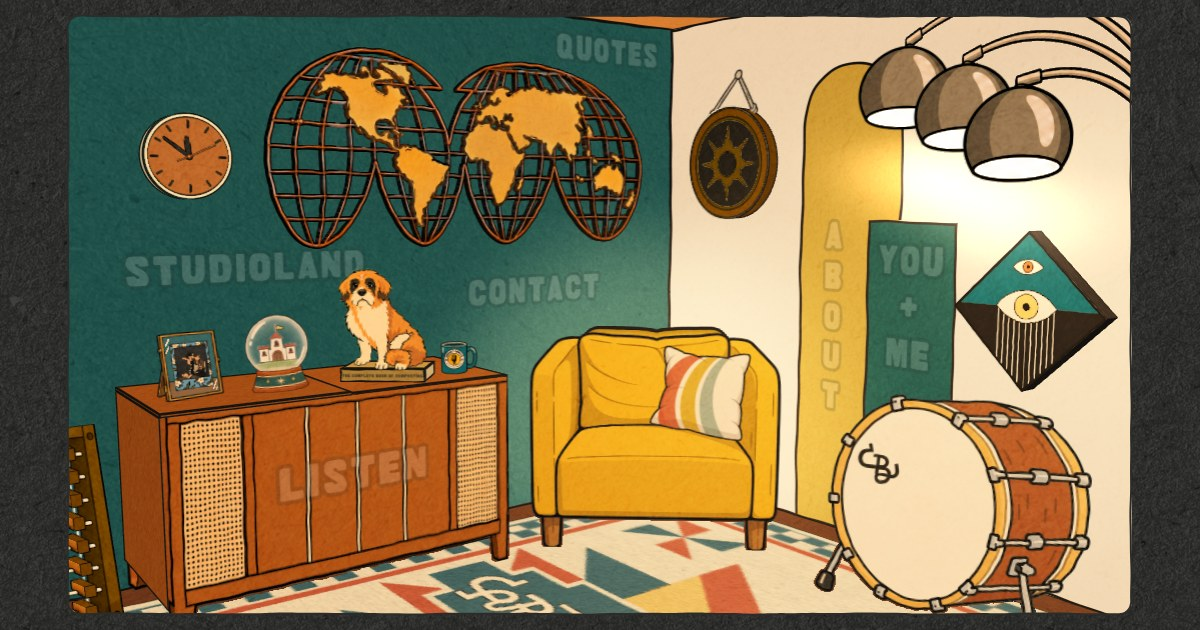
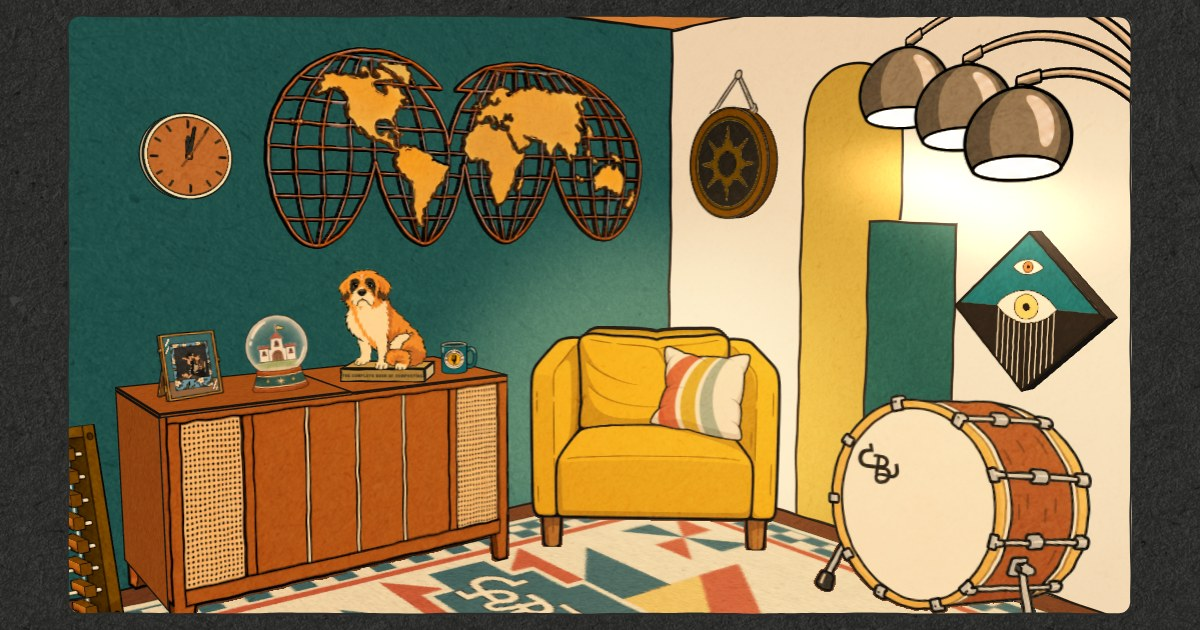
Share picture without the wall words (#36)
Claude-Session: https://claude.ai/code/session_01EmtaLu9Z2SESFRXpAj7RKS

diff --git a/index.html b/index.html
@@ -16,7 +16,7 @@
     <meta property="og:url" content="https://carlbahner.com/" />
     <meta property="og:title" content="Carl Bahner // mixing and co-production" />
     <meta property="og:description" content="Mixer, educator, and sonic chaos gremlin." />
-    <meta property="og:image" content="https://carlbahner.com/assets/share.jpg?v=2" />
+    <meta property="og:image" content="https://carlbahner.com/assets/share.jpg?v=3" />
     <meta property="og:image:width" content="1200" />
     <meta property="og:image:height" content="630" />
     <meta name="twitter:card" content="summary_large_image" />

diff --git a/CLAUDE.md b/CLAUDE.md
@@ -509,7 +509,8 @@ a separate sync page, i think you're right... make them smaller to fit under the
 with four songs"), built here until then and moved to its own repo for the launch. His launch quiz answers (https://claude.ai/artifact/5LWQs73jHMp7yRByiUZgP1): the tab
 says "Carl Bahner"; a shared link shows the room as it opens (`assets/share.jpg`; on the charcoal and grain round the card since 9 Nov 2026: "Can we
 make the page background charcoal with grain? Like outside the main card border. On the page and the preview", the page
-round the card is too, THE PAGE ROUND THE CARD in `index.html`), his name and his line "Mixer, educator,
+round the card is too, THE PAGE ROUND THE CARD in `index.html`; and no words on the walls in it: "Can we do a render for the preview that does not have the page
+titles on the walls etc?", rendered with `?open=none&quiet=0`), his name and his line "Mixer, educator,
 and sonic chaos gremlin."; visitor counts, yes; old addresses go to the room (`404.html`). `studio/build-site.sh <folder>`
 lays out the real site. **On Netlify, the contact form goes to Netlify's own forms** (a hidden copy of it in `index.html` for Netlify to find), FormSubmit only if Netlify will not take it: the first FormSubmit sends from the live site did not arrive ("this isn't a test link, that's from the live netlify site", 3 Nov 2026). **The snow globe, 3 Nov 2026**, his drawing with his Brand Castle from Homegrown's classroom inside, its flag waving:
 "I'm gonna replace the candle with a snow globe with this inside it", and "It should go to welcometostudioland.com".
